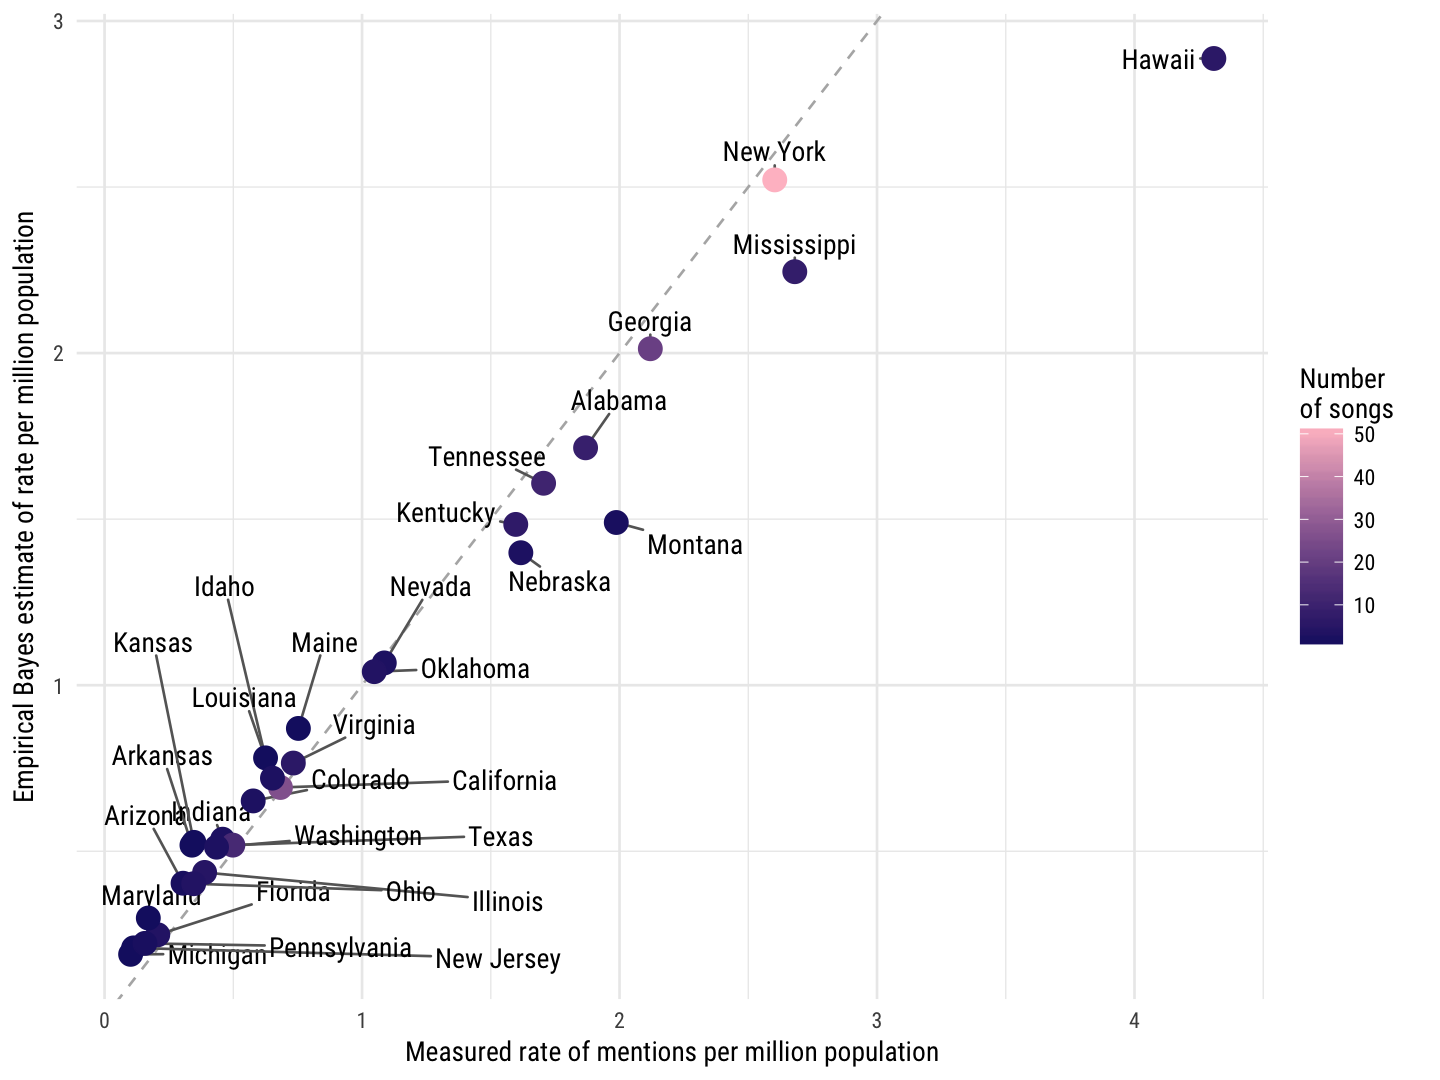
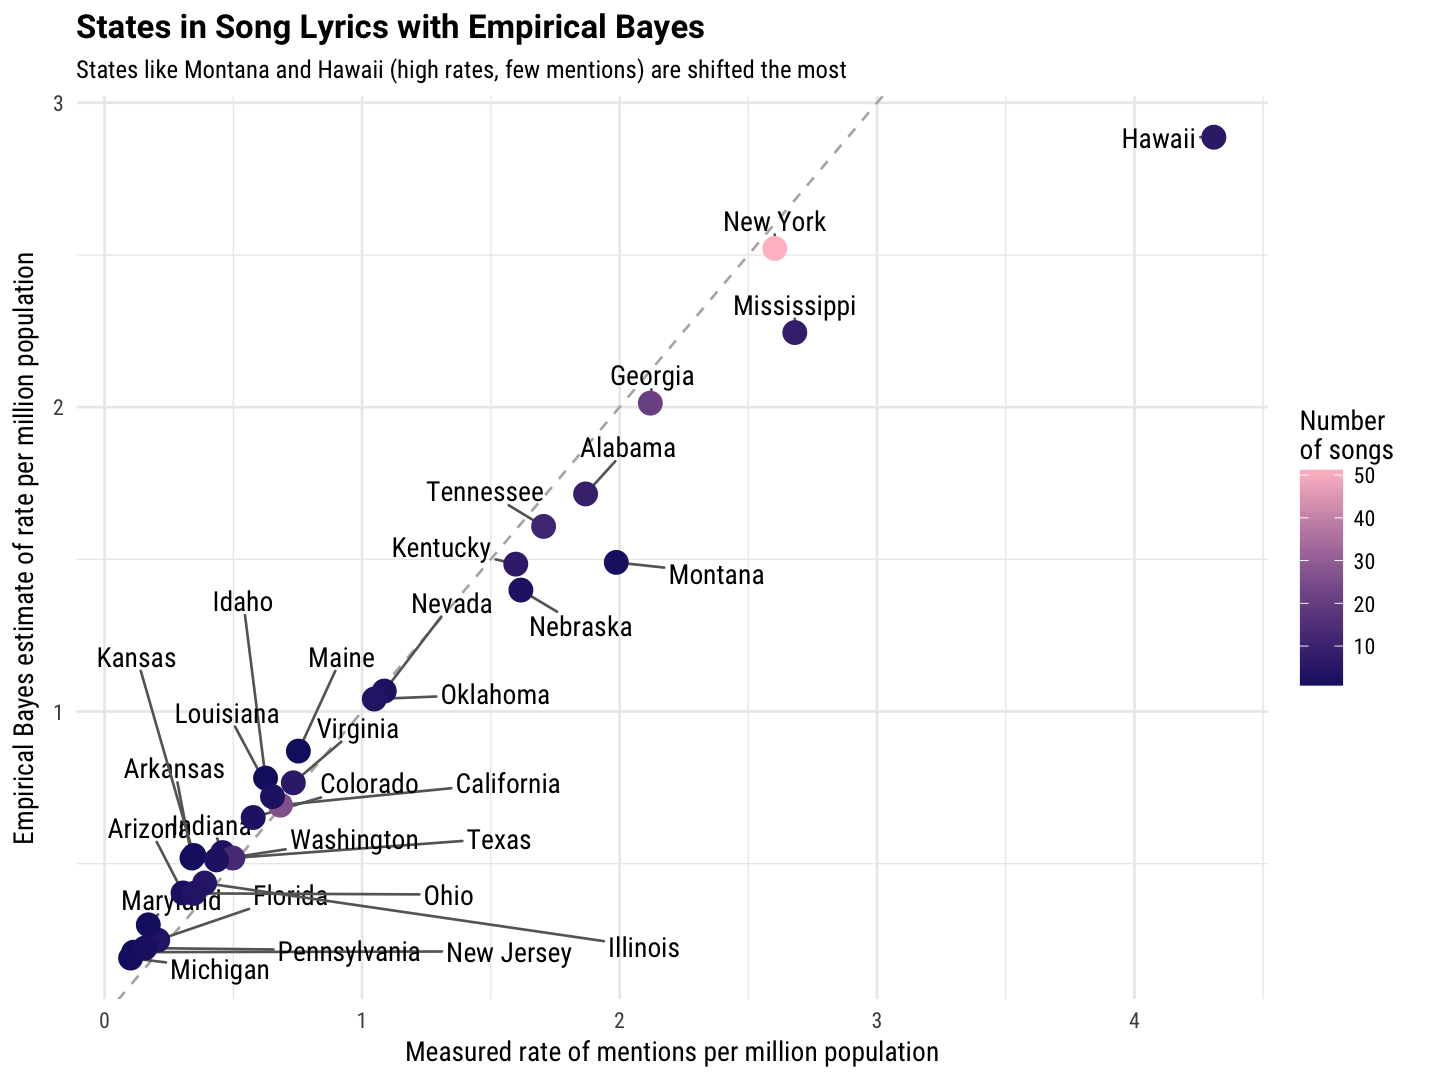
Change figure title

diff --git a/_posts/2016-09-28-Bayesian-Blues.md b/_posts/2016-09-28-Bayesian-Blues.md
@@ -137,9 +137,12 @@ ggplot(state_counts, aes(rate, rate_estimate, color = n)) +
     geom_point(size = 4) +
     scale_color_gradient(low = "midnightblue", high = "pink",
                          name="Number\nof songs") +
-    labs(x = "Measured rate of mentions per million population",
+    labs(title = "States in Song Lyrics with Empirical Bayes",
+         subtitle = "States like Montana and Hawaii (high rates, few mentions) are shifted the most",
+         x = "Measured rate of mentions per million population",
          y = "Empirical Bayes estimate of rate per million population") +
-    theme_minimal(base_family = "RobotoCondensed-Regular")
+    theme_minimal(base_family = "RobotoCondensed-Regular") +
+    theme(plot.title=element_text(family="Roboto-Bold"))
 {% endhighlight %}
 
 ![center](/figs/2016-09-28-Bayesian-Blues/unnamed-chunk-7-1.png)
